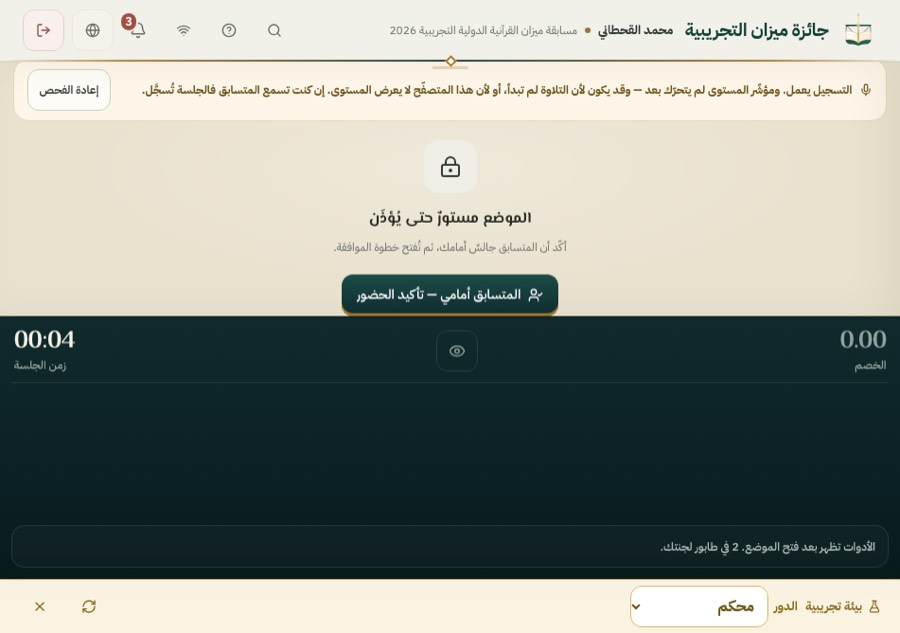
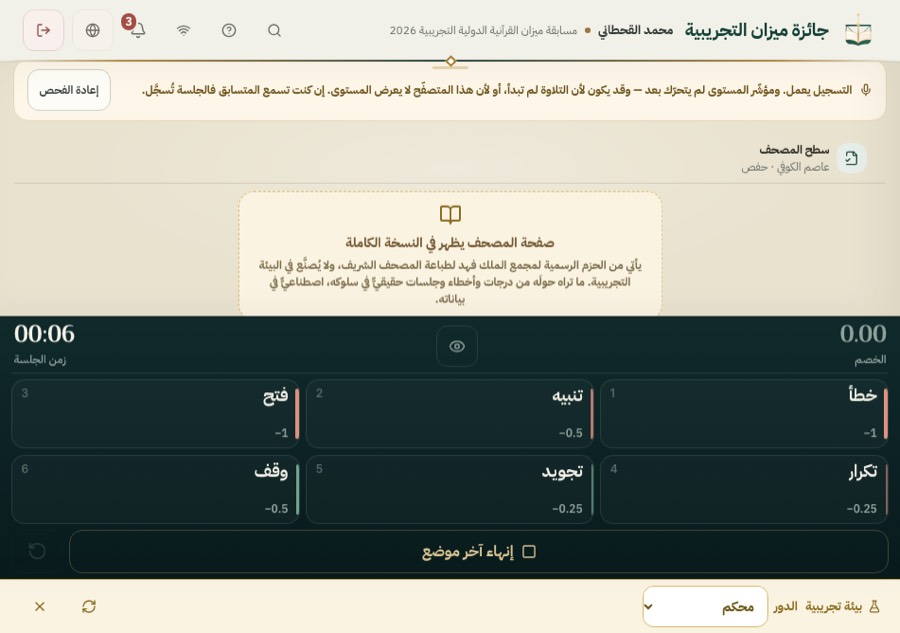
fix(ui): tabletop judge deck keeps 48px key rows, three per row (Codex review)

diff --git a/src/index.css b/src/index.css
@@ -2219,7 +2219,16 @@ label:has(> input[type="checkbox"]:not(.mizan-chip-input)){ min-height:44px; min
     row-gap:calc(env(viewport-segment-top 0 1) - env(viewport-segment-bottom 0 0));
   }
   .mizan-judge-strip{ inset-inline-end:0 }
-  .mizan-judge-deck{ border-inline-start:0; border-top:1px solid rgba(0,0,0,.45) }
+  .mizan-judge-deck{ border-inline-start:0; border-top:1px solid rgba(0,0,0,.45);
+    gap:.35rem; padding-block:.45rem calc(.45rem + env(safe-area-inset-bottom)) }
+  /* اللوحة هنا نصف الارتفاع (~280–335px) لكنها بعرض الشاشة كلّه: ثلاثة مفاتيح في الصف بدل اثنين،
+     وأرضية 48px للصف كما في النافذة القصيرة، فيُمرَّر الفائض داخل اللوحة ولا تتراكب المفاتيح. */
+  .mizan-judge-pad{ grid-template-columns:repeat(3,minmax(0,1fr)); grid-auto-rows:minmax(48px,1fr) }
+  .mizan-judge-pad > :last-child:nth-child(odd){ grid-column:auto }
+  .mizan-judge-pad > :last-child:nth-child(3n+1){ grid-column:1 / -1 }
+  .mizan-judge-action{ min-height:48px; padding-block:.4rem }
+  .mizan-judge-hud{ padding-bottom:.3rem }
+  .mizan-judge-finish,.mizan-judge-undo{ min-height:46px }
 }
 
 /* ═══════════════════════════════════════════════════════════════════════════

diff --git a/docs/IPHONE-DUO-ADAPTIVE-QUALITY.md b/docs/IPHONE-DUO-ADAPTIVE-QUALITY.md
@@ -31,7 +31,7 @@
 | 4 | وضع الكتاب (مفصل عمودي x=334): بطاقة الدخول كلها تعبر المفصل (حقلا البريد وكلمة المرور، «دخول»، «نسيت كلمة المرور؟»، «جرّب النسخة التجريبية») | لا تحسين تدريجي لـ Viewport Segments | `@media (horizontal-viewport-segments:2)`: البطاقة كاملة في الجزء الأيمن (بداية القراءة) بحشو مأخوذ من `env(viewport-segment-left 1 0)`. العبور: 5 ← 0 |
 | 5 | وضع الكتاب: قمرة المحكّم عمودها `minmax(0,1fr) clamp(248px,34vw,344px)`، فيقع خط الطي داخل الورقة (نصّ المصحف) ويعبره «إعادة الفحص» ومقبض بيانات الجلسة | الأعمدة لا تعرف المفصل | الورقة = `env(viewport-segment-width 1 0)` واللوحة = `env(viewport-segment-width 0 0)`، والفاصل = عرض المفصل بالضبط. شريط البيانات فوق الورقة وحدها، والمقبض في منتصفها. مع مفصل 12px: اللوحة 0–328 والورقة 340–669. العبور: 2 ← 0. ونسخة `[dir="ltr"]` للإنجليزية |
 | 6 | وضع الكتاب: زرّ «ابدأ مع المتسابق التالي» في منتصف شاشة الانتظار، على المفصل | تخطيط عمودي واحد في المنتصف | صنف `mizan-judge-wait`: الشاشة في الجزء الأيمن بعرضه. العبور: 1 ← 0 |
-| 7 | وضع الطاولة (مفصل أفقي y=334، 951×669): الورقة واللوحة جنبًا إلى جنب بارتفاع كامل، فيشطر المفصل سطور المصحف | الصفوف لا تعرف المفصل | `@media (vertical-viewport-segments:2)`: الورقة فوق المفصل بارتفاع الجزء العلوي ناقصًا الترويسة، ولوحة المفاتيح تحته على النصف المسنود، والفاصل = المفصل |
+| 7 | وضع الطاولة (مفصل أفقي y=334، 951×669): الورقة واللوحة جنبًا إلى جنب بارتفاع كامل، فيشطر المفصل سطور المصحف | الصفوف لا تعرف المفصل | `@media (vertical-viewport-segments:2)`: الورقة فوق المفصل بارتفاع الجزء العلوي ناقصًا الترويسة، ولوحة المفاتيح تحته على النصف المسنود، والفاصل = المفصل. ولأن اللوحة صارت نصف الارتفاع بعرض الشاشة (ملاحظة مراجعة Codex على #419): ثلاثة مفاتيح في الصف وأرضية 48px للصف، فيُمرَّر الفائض ولا تتراكب المفاتيح. تحقق أثناء التحكيم: 6 مفاتيح × 74px، صفر تراكب |
 
 دون Viewport Segments (Safari 27.1 الافتراضي) لا تُطبَّق الكتل 4–7 أبدًا، ولا يتغيّر بكسل.
 
